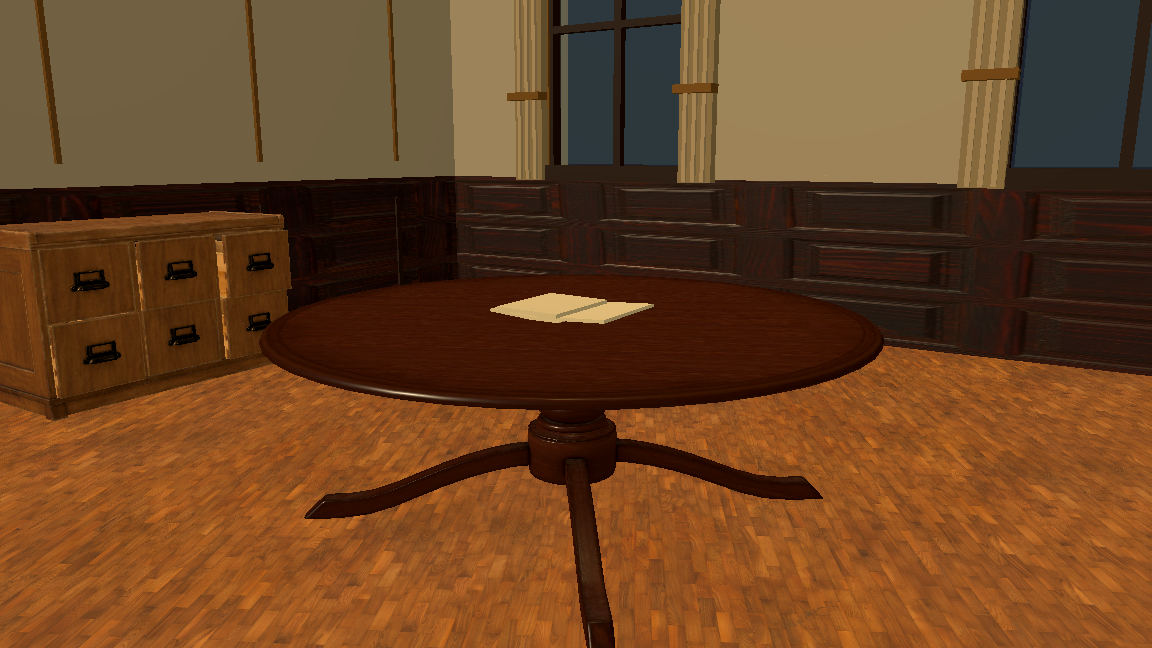
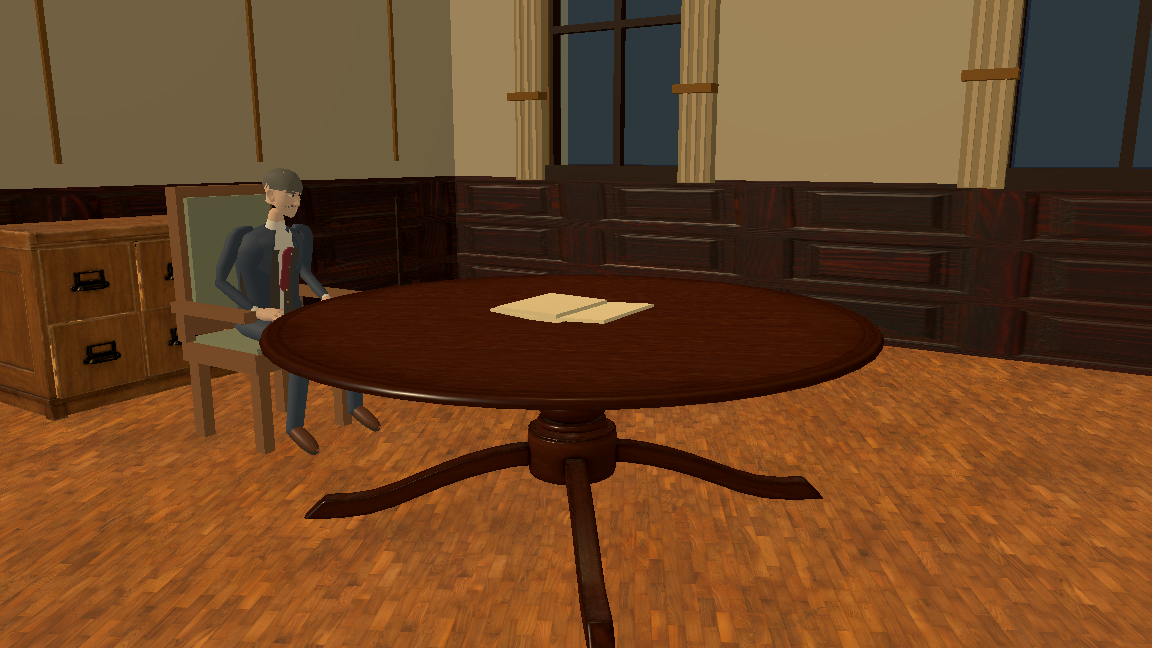
Add seated negotiator to Versailles room

Changed region(s): [[0.125, 0.2469, 0.3438, 0.7099]]

diff --git a/docs/VERSAILLES_ROOM_LAYOUT.md b/docs/VERSAILLES_ROOM_LAYOUT.md
@@ -2,7 +2,7 @@
 
 ## Design intent
 
-A reusable, character-free formal diplomatic room in the project's 1 unit = 1 metre scale, using dark wood paneling, parquet, warm plaster, muted brass and an imported lantern chandelier. The room is a restrained period-inspired composition; it is not a reconstruction of a specific Versailles chamber. No flags, maps, portraits, or historical claims are added because the candidate references could not be verified.
+A reusable formal diplomatic room in the project's 1 unit = 1 metre scale, using dark wood paneling, parquet, warm plaster, muted brass and an imported lantern chandelier. One existing CASES negotiator character sits in its included chair at the west table position and starts the `SeatedIdle` animation. The room is a restrained period-inspired composition; it is not a reconstruction of a specific Versailles chamber. No flags, maps, portraits, or historical claims are added because the candidate references could not be verified.
 
 ## Dimensions and views
 
@@ -13,7 +13,7 @@ A reusable, character-free formal diplomatic room in the project's 1 unit = 1 me
 - Lighting: one warm directional source with soft ambient fill and one low-energy chandelier light; the scene remains within Godot's GL Compatibility renderer.
 - Interior overview: preview camera near (2.4, 2.0, 3.0), just inside the entry doors and looking diagonally across the table toward the rear windows and lantern.
 - Negotiation camera reference: preserve the existing demo camera offset of (1.8, 1.5, 2.85) and 43° FOV as a reference only. The main project has no Versailles negotiation camera or level to integrate with.
-- `ParticipantSeatAnchor_Template`: one empty marker at the west side of the table, facing toward the centre. It is an authoring template, not a one-seat scenario. Duplicate it only after a real participant layout is added.
+- `ParticipantSeatAnchor_Template`: marker at the west side of the table, facing toward the centre. The sample negotiator is placed at this transform. The scene demonstrates one occupant, not a one-seat scenario; duplicate or remove the sample only after a real participant layout is added.
 
 ## Furniture and asset use
 
@@ -21,11 +21,12 @@ A reusable, character-free formal diplomatic room in the project's 1 unit = 1 me
 - Use Vintage Wooden Drawer 01 against one side wall as a low storage cabinet.
 - Use Lantern Chandelier 01 centered under the ceiling.
 - Use Dark Paneled Wood on lower wall panels and Diagonal Parquet on the floor.
-- Do not place Green Chair 01 or Arm Chair 01 as room furniture: the current seated negotiator asset already includes a chair, and the repository has no participant count or seat layout. The scene exposes a marker template without embedding characters or chair duplication.
+- The sample negotiator uses the existing `cases_suited_negotiator.glb`, which includes its chair and `SeatedIdle` / `SeatedTalking` clips. No separate chair mesh is placed, so the chair cannot duplicate the character's own seat.
+- Green Chair 01 and Arm Chair 01 remain review alternatives. Do not add them beside the sample character unless its included chair is removed and an actual participant layout is chosen.
 - Exclude Vintage Cabinet 01 from runtime because of its 61k triangle count. Exclude the modern stationery, supplied landscape image, unverified flags/maps/art, and inaccessible Sketchfab sources.
 
 ## Scope and integration
 
-`godot/scenes/versailles_room.tscn` is a standalone reusable environment. It does not replace `res://scenes/seated_suit_demo.tscn`, which remains the project main scene. There is no existing Versailles level or browser-export preset in this repository, so this environment cannot be integrated into a scenario without a later scene-loading decision. The scene uses no character meshes, rig, animations, dialogue, AI, negotiation logic, or collision/navigation systems.
+`godot/scenes/versailles_room.tscn` is a standalone reusable environment with one sample seated actor. It does not replace `res://scenes/seated_suit_demo.tscn`, which remains the project main scene. There is no existing Versailles level or browser-export preset in this repository, so this environment cannot be integrated into a scenario without a later scene-loading decision. Apart from the sample actor's existing rig and idle clip, the room adds no dialogue, AI, negotiation logic, or collision/navigation systems.
 
 The comparison project under `assets/versailles/` is outside the main game project. Only the CC0 assets selected in `docs/ASSET_LICENSES.md` are copied to the main project's `godot/assets/versailles/optimized/` area.
